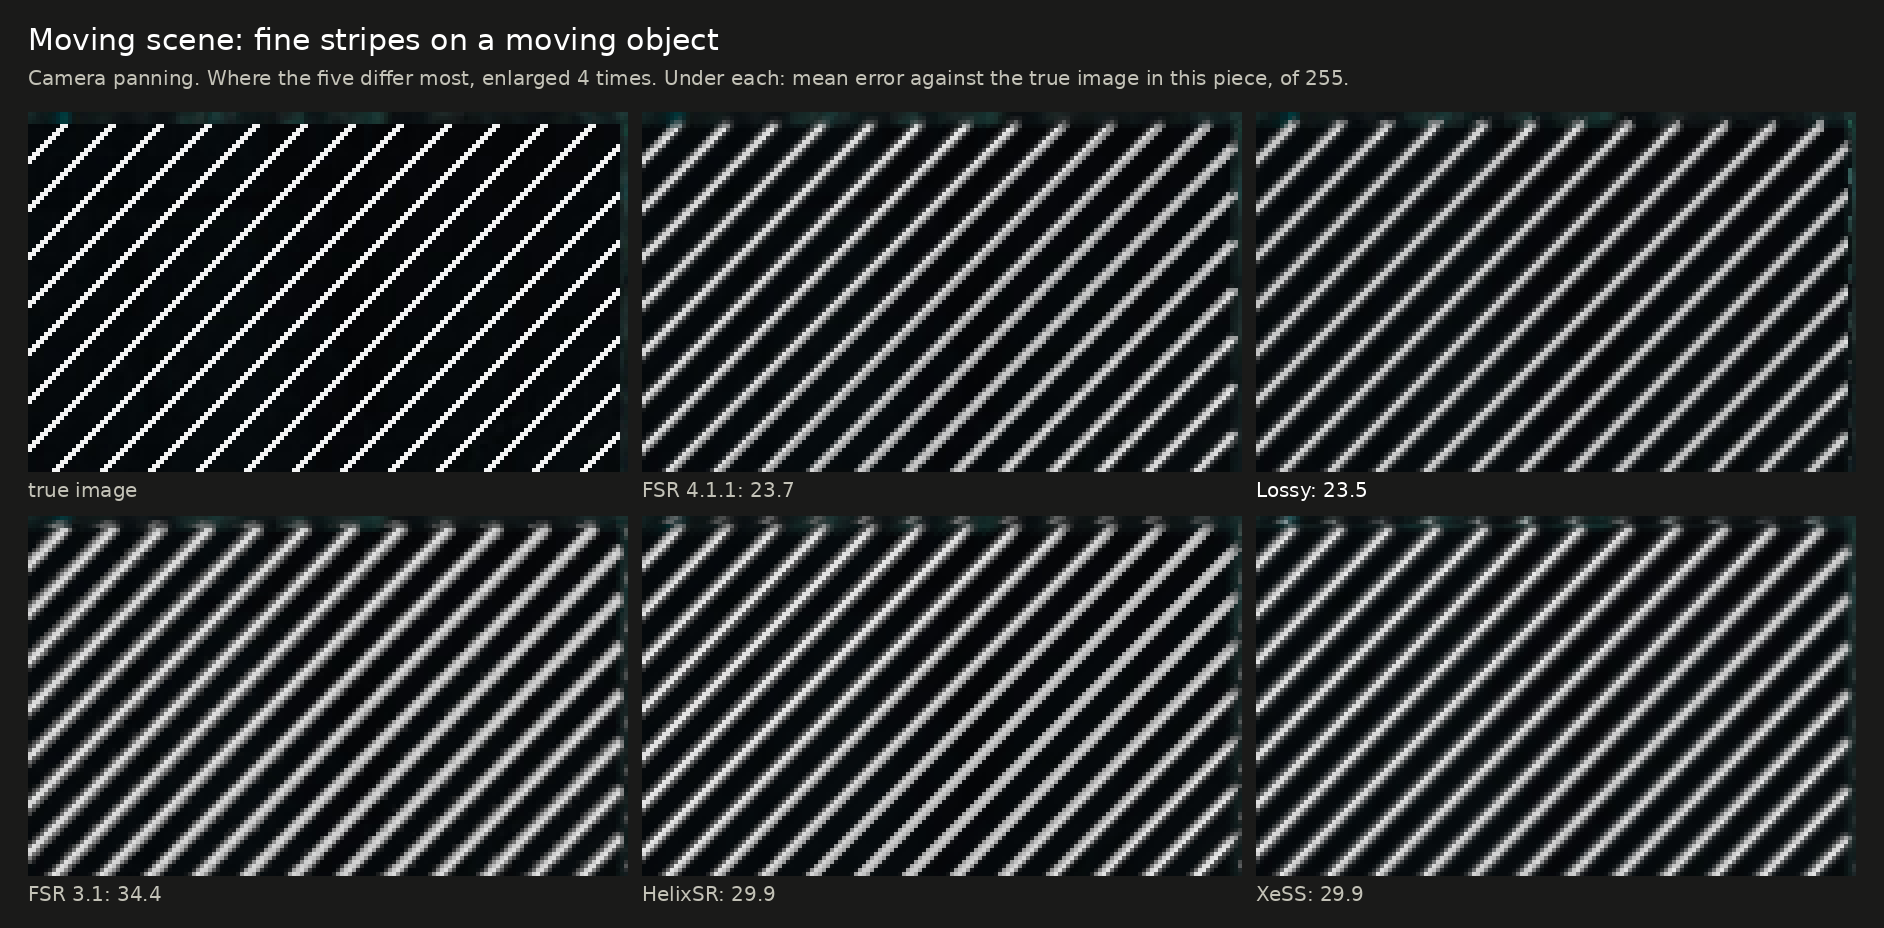
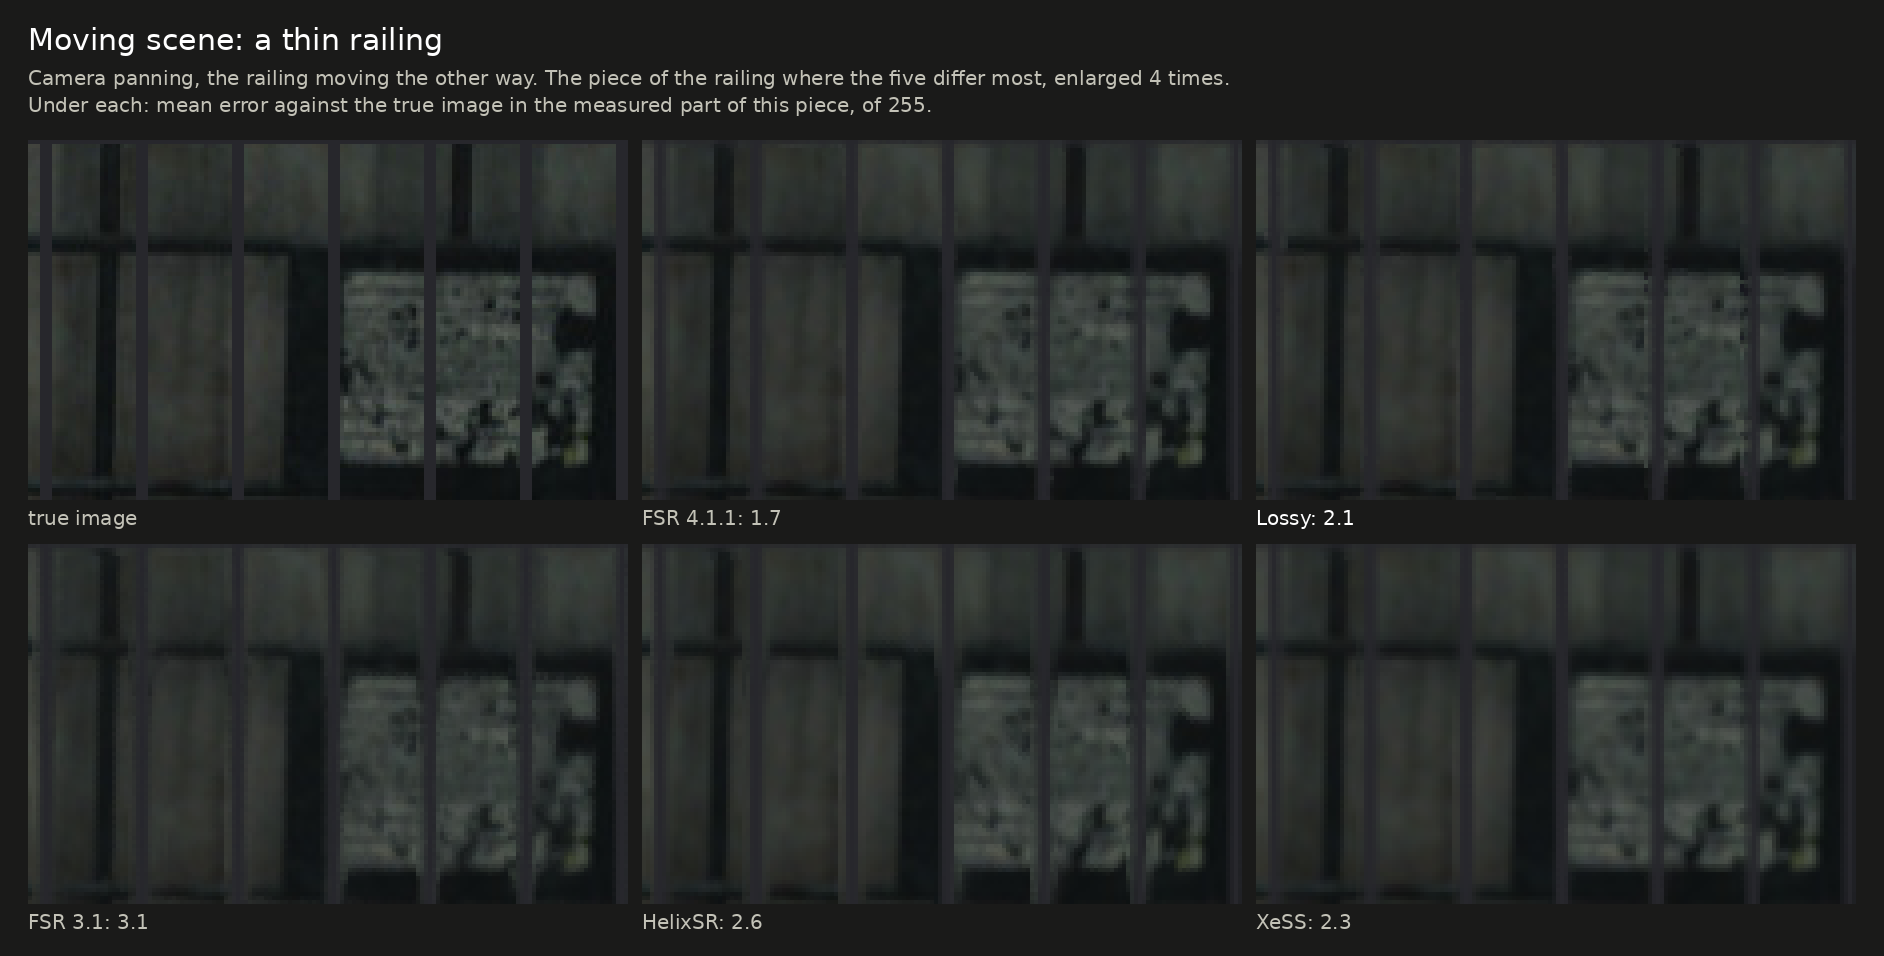
Upscaler comparison: one picture per spoke of the chart
The moving-scene picture now shows the railing, the wire picture a slow pan (where the chart measures
it); new pictures for just-uncovered areas (panning and still camera), old image beside a moving
object, thin bars fixed on screen and steadiness at rest (a change map). Pieces are centered on the part
a measure looks at, and the figure under each panel counts that part.

diff --git a/docs/img/make_upscaler_comparison.py b/docs/img/make_upscaler_comparison.py
@@ -3,7 +3,7 @@
 # make_upscaler_comparison.py [<dir>]: the figures of docs/upscaler-comparison.md.
 #   cmp5-radar-{light,dark}.svg (one shape per upscaler), release-radar-{light,dark}.svg (this release's lossy DLL over the previous one's, and FSR 4.1.1 under this release's, for the front page), steady-quality-{light,dark}.svg (for docs/steady-test.md): charts; the numbers in them are the
 #       tables of that page (test rig, 4K output from 2260x1272, Radeon RX 7800 XT under Proton, single runs).
-#   With <dir>: cmp5-still.png, cmp5-wires.png, cmp5-sparks.png, cmp5-foliage.png, cmp5-motion.png, cmp5-big.png (large particles), cmp5-plate.png, cmp5-rain.png (frame 39 of the plate scene and of the rain scene): the same piece of one frame from the
+#   With <dir>: one picture per picture spoke: cmp5-still.png, cmp5-motion.png (the railing), cmp5-uncovered.png, cmp5-uncovered-still.png, cmp5-ghost.png, cmp5-plate.png, cmp5-bars.png, cmp5-sparks.png, cmp5-foliage.png, cmp5-rest.png (a change map), cmp5-wires.png (under a slow pan), and for the tables cmp5-big.png (large particles) and cmp5-rain.png: the same piece of one frame from the
 #       five upscalers beside the true image. <dir> holds <scene>_<name>/output_3840x2160_f037.raw (RGBA16F) for scene in still,
 #       wires, sparks, foliage, motion and name in fsr4, lossy, fsr3, helix, xess, and <scene>_truth.npy (the true 4K image).
 import sys
@@ -241,19 +241,28 @@ def box(a, kh, kw):
     return (c[kh:, kw:] - c[:-kh, kw:] - c[kh:, :-kw] + c[:-kh, :-kw]) / kh / kw
 
 
-def crops(scene, title, sub, kw, kh, z, area, gain=1.0, name=None, only_changed=False, frame=37):
-    """the kw x kh piece inside `area` (x0, y0, x1, y1) where the five differ most from each other, enlarged z times"""
+def crops(scene, title, sub, kw, kh, z, area, gain=1.0, name=None, only_changed=False, frame=37, mask=None, shade=False):
+    """the kw x kh piece inside `area` (x0, y0, x1, y1) where the five differ most from each other, enlarged z times;
+    mask: a file <dir>/<mask>.npy (4K, boolean), only differences inside it count (the part of the picture a measure looks at);
+    the piece is then centered on that part, and with shade the rest of the piece is dimmed"""
     tru = srgb(np.load(f'{D}/{scene}_truth.npy').astype(np.float32))
     out = {k: srgb(np.fromfile(f'{D}/{scene}_{k}/output_3840x2160_f{frame:03d}.raw', dtype=np.float16).reshape(HH, WW, 4)[:, :, :3]) for k in KEYS}
     spread = np.std(np.stack([out[k].mean(2) for k in KEYS]), 0)
     if only_changed:      # only where this scene's true image differs from the still scene's: the particles, not the picture behind them
         spread = spread * (np.abs(tru - srgb(np.load(f'{D}/still_truth.npy').astype(np.float32))).mean(2) > 0.02)
+    mk = np.load(f'{D}/{mask}.npy') if mask else None
+    if mask:
+        spread = spread * mk
     x0, y0, x1, y1 = area
     s = box(spread, kh, kw)[y0:y1 - kh, x0:x1 - kw]; y, x = np.unravel_index(np.argmax(s), s.shape); y += y0; x += x0
+    if mask:      # center the piece on the measured part inside it
+        ys, xs = np.nonzero(mk[y:y + kh, x:x + kw]); y = int(np.clip(y + ys.mean() - kh / 2, 0, HH - kh)); x = int(np.clip(x + xs.mean() - kw / 2, 0, WW - kw))
     c = lambda a: a[y:y + kh, x:x + kw]
-    pic = lambda a: (np.clip(np.repeat(np.repeat(c(a), z, 0), z, 1) * gain, 0, 1) * 255 + 0.5).astype(np.uint8)
-    panels = [('true image', pic(tru))] + [(f'{n}: {np.abs(c(out[k]) - c(tru)).mean() * 255:.1f}', pic(out[k])) for n, k in zip(NAMES, KEYS)]
-    print(scene, 'window', x, y, ' '.join(p[0] for p in panels[1:]))
+    dim = np.where(c(mk), 1.0, 0.4)[:, :, None] if (mask and shade) else 1.0
+    pic = lambda a: (np.clip(np.repeat(np.repeat(c(a) * dim, z, 0), z, 1) * gain, 0, 1) * 255 + 0.5).astype(np.uint8)
+    err = lambda a: (np.abs(c(a) - c(tru)).mean(2)[c(mk)] if mask else np.abs(c(a) - c(tru))).mean() * 255      # with a mask: over the measured part of the piece
+    panels = [('true image', pic(tru))] + [(f'{n}: {err(out[k]):.1f}', pic(out[k])) for n, k in zip(NAMES, KEYS)]
+    print(name or scene, 'window', x, y, ' '.join(p[0] for p in panels[1:]))
     pw, ph, gap, m = kw * z, kh * z, 14, 28
     top = 112 + 28 * sub.count('\n')
     im = Image.new('RGB', (2 * m + 3 * pw + 2 * gap, top + 2 * (ph + 44) + 8), BG); d = ImageDraw.Draw(im)
@@ -264,13 +273,47 @@ def crops(scene, title, sub, kw, kh, z, area, gain=1.0, name=None, only_changed=
     im.save(name or f'cmp5-{scene}.png', optimize=True)
 
 
+def restmap(kw=240, kh=150, z=2, gain=120):
+    """steadiness at rest: how much each pixel of the still picture changes from frame 36 to frame 37, as a map, at the piece where FSR 4.1.1 changes most"""
+    fr = lambda k, n: srgb(np.fromfile(f'{D}/rest_{k}/output_3840x2160_f{n:03d}.raw', dtype=np.float16).reshape(HH, WW, 4)[:, :, :3])
+    ch = {k: np.abs(fr(k, 37) - fr(k, 36)).mean(2) for k in KEYS}
+    spread = ch['fsr4']      # where FSR 4.1.1, the reference, changes most
+    s = box(spread, kh, kw)[200:HH - 200 - kh, 200:WW - 200 - kw]; y, x = np.unravel_index(np.argmax(s), s.shape); y += 200; x += 200
+    c = lambda a: a[y:y + kh, x:x + kw]
+    tru = srgb(np.load(f'{D}/rest_truth.npy').astype(np.float32))
+    pic = lambda a: (np.clip(np.repeat(np.repeat(a, z, 0), z, 1), 0, 1) * 255 + 0.5).astype(np.uint8)
+    mp = lambda a: np.repeat(pic(np.clip(c(a) * gain, 0, 1))[:, :, None], 3, 2)
+    panels = [('the picture (true image)', pic(c(tru)))] + [(f'{n}: {c(ch[k]).mean() * 255:.3f}', mp(ch[k])) for n, k in zip(NAMES, KEYS)]
+    print('rest window', x, y, ' '.join(p[0] for p in panels[1:]), '| whole frame:', ' '.join(f'{k} {ch[k].mean() * 255:.3f}' for k in KEYS))
+    title = 'Steadiness at rest: what changes from one frame to the next'
+    sub = ('A still picture, nothing moves. The piece where FSR 4.1.1 changes most, enlarged 2 times; the maps show the change of each pixel\n'
+           f'from one frame to the next, brightened {gain} times. Under each: mean change in this piece, of 255. Darker is steadier.')
+    pw, ph, gap, m = kw * z, kh * z, 14, 28
+    top = 112 + 28 * sub.count('\n')
+    im = Image.new('RGB', (2 * m + 3 * pw + 2 * gap, top + 2 * (ph + 44) + 8), BG); d = ImageDraw.Draw(im)
+    d.text((m, 22), title, font=font(30), fill=INK); d.multiline_text((m, 66), sub, font=font(20), fill=MUTED, spacing=8)
+    for i, (pl, a) in enumerate(panels):
+        px, py = m + (i % 3) * (pw + gap), top + (i // 3) * (ph + 44)
+        im.paste(Image.fromarray(a), (px, py)); d.text((px, py + ph + 6), pl, font=font(20), fill=INK if pl.startswith('Lossy') else MUTED)
+    im.save('cmp5-rest.png', optimize=True)
+
+
+# One picture per picture spoke of the chart (and two for scenes that are in the tables only: large particles, rain).
 E = 'Under each: mean error against the true image in this piece, of 255.'
-crops('still', 'Still picture: fine detail', f'A piece of the 4K output where the five upscalers differ most from each other, enlarged 4 times.\n{E}', 150, 90, 4, (200, 200, WW - 200, HH - 200))
-crops('wires', 'A wire far thinner than a rendered pixel, camera still', f'Where the five differ most, enlarged 4 times. {E}', 150, 90, 4, (250, 250, 1950, 1900))
+EM = 'Under each: mean error against the true image in the measured part of this piece, of 255.'
+ES = 'The measured part is shown at full brightness, the rest dimmed. Under each: mean error against the true image in that part, of 255.'
+FULL = (200, 200, WW - 200, HH - 200)
+crops('still', 'Still picture: fine detail', f'A piece of the 4K output where the five upscalers differ most from each other, enlarged 4 times.\n{E}', 150, 90, 4, FULL)
+crops('motion', 'Moving scene: a thin railing', f'Camera panning, the railing moving the other way. The piece of the railing where the five differ most, enlarged 4 times.\n{EM}', 150, 90, 4, FULL, mask='motion_mask_rail')
+crops('motion', 'Just uncovered, camera panning', f'What a moving object has uncovered in the last four frames. The piece of it where the five differ most, enlarged 5 times.\n{ES}', 120, 72, 5, FULL, mask='motion_mask_uncovered', name='cmp5-uncovered.png', shade=True)
+crops('stillcam', 'Just uncovered, camera still', f'The camera is still and the objects move. The piece of what they have just uncovered where the five differ most,\nenlarged 5 times. {ES}', 120, 72, 5, FULL, mask='stillcam_mask', name='cmp5-uncovered-still.png', shade=True)
+crops('ghost10', 'Old image beside a moving object', f'Camera still, the object moving. Where its image of a frame ago would land if it were left behind: the piece where the five\ndiffer most, enlarged 5 times. {ES}', 120, 72, 5, FULL, mask='ghost10_mask', name='cmp5-ghost.png', shade=True)
+crops('plate', 'A still bright object over ground that moves fast', f'The ground moves down by 100 pixels per frame; the white object (top) stays where it is, at the same depth.\nThe piece just below it where the five differ most, enlarged 2 times. {E}', 240, 160, 2, (2300, 800, 3100, 1000), frame=39)
+crops('bars', 'Thin bars fixed on screen in front of a moving background', f'The bars stay in place, the background pans by 12 pixels per frame. Between the bars, where their image of a frame ago\nwould land: the piece where the five differ most, enlarged 4 times and brightened 3 times. {EM}', 150, 90, 4, FULL, mask='bars_mask', gain=3)
 crops('sparks', 'Tiny fast sparks drawn without motion vectors', f'Camera still. Where the five differ most, enlarged 5 times. {E}', 120, 72, 5, (250, 250, 1950, 1900), only_changed=True)
 crops('foliage', 'Leaves swaying without motion vectors, camera still', f'Where the five differ most, enlarged 4 times. {E}', 150, 90, 4, (300, 300, 1900, 1850))
-crops('motion', 'Moving scene: fine stripes on a moving object', f'Camera panning. Where the five differ most, enlarged 4 times. {E}', 150, 90, 4, (1900, 250, 3300, 1500))
-crops('plate', 'A still bright object over ground that moves fast', f'The ground moves down by 100 pixels per frame; the white object (top) stays where it is, at the same depth.\nThe piece just below it where the five differ most, enlarged 2 times. {E}', 240, 160, 2, (2300, 800, 3100, 1000), frame=39)
+restmap()
+crops('wirepan', 'A wire far thinner than a rendered pixel, camera panning slowly', f'Where the five differ most, enlarged 4 times. {E}', 150, 90, 4, (250, 250, 1950, 1900), name='cmp5-wires.png')
 crops('big', 'Large glowing particles drawn without motion vectors', f'Camera still. Where the five differ most, enlarged 4 times. {E}', 150, 90, 4, (250, 250, 1950, 1900), only_changed=True)
 
 # ---- rain: thin fast streaks without motion vectors over a dark surface (research/pruning/rain.py), frame 39. There is no "true image" to score against

diff --git a/docs/upscaler-comparison.md b/docs/upscaler-comparison.md
@@ -91,11 +91,16 @@ and the ground are at the same depth in this scene; with distinct depths the los
   with release `dll-2026-10-12`, which made skipped frames use the network's verdict there (the release before scored 15.0 and 13.5).
   The figures are for the frames that skip the network; on the others the lossy DLL reads 11.9 and 11.1.
 
-The three pictures below are of the scenes in the first rows of the table and of the foliage rows.
+The pictures below are of the scenes behind the chart's accuracy, railing, uncovered and foliage spokes: one piece of one frame from each of the five, beside the true image.
+Each piece is the one where the five differ most, so it shows the differences at their largest, not a typical part of the frame.
 
 <img src="img/cmp5-still.png" width="760" alt="Still picture, a 150 by 90 pixel piece of the 4K output enlarged four times, where the five upscalers differ most: a water tank with a thin ladder and railing. True image, then FSR 4.1.1 (error 2.3 of 255), the lossy DLL (2.4), FSR 3.1 (2.8), HelixSR (1.8) and XeSS (2.2). The ladder's thin rungs are clearest in HelixSR and FSR 4.1.1 and softest in FSR 3.1.">
 
-<img src="img/cmp5-motion.png" width="760" alt="Moving scene, camera panning, a piece of the fine diagonal stripes on a moving object enlarged four times. True image: thin sharp white stripes. FSR 4.1.1 (error 23.7 of 255) and the lossy DLL (23.4) show them thin and even; FSR 3.1 (34.4) thicker and softer; HelixSR and XeSS (29.9 each) in between.">
+<img src="img/cmp5-motion.png" width="760" alt="Moving scene, camera panning, a piece of the thin railing in front of a wall with a bright patch, enlarged four times. True image: sharp dark bars. FSR 4.1.1 (error 1.7 of 255) and the lossy DLL (2.1) show the bars and the patch behind them nearly as sharp; XeSS (2.3) and HelixSR (2.6) a little softer; FSR 3.1 (3.1) softest, with the bars widened.">
+
+<img src="img/cmp5-uncovered.png" width="760" alt="Just-uncovered areas with the camera panning: the strip a moving object has uncovered in the last four frames, shown at full brightness beside the dimmed object, enlarged five times. Error in the strip in this piece: FSR 4.1.1 2.3 of 255, the lossy DLL 2.8, FSR 3.1 4.5, XeSS 4.7, HelixSR 5.4. Over all such areas of the frame the lossy DLL is ahead of FSR 4.1.1 (35.90 against 34.48 dB); in this piece, the one where the five differ most, it is behind.">
+
+<img src="img/cmp5-uncovered-still.png" width="760" alt="Just-uncovered areas with the camera still and the objects moving: the uncovered strip above a striped object, shown at full brightness, enlarged five times. Error in the strip: FSR 4.1.1 1.4 of 255, the lossy DLL 1.7, FSR 3.1 2.6, HelixSR 2.8, XeSS 3.6. XeSS shows bright specks along the object's edge.">
 
 <img src="img/cmp5-foliage.png" width="760" alt="Leaves swaying without motion vectors, camera still, a piece enlarged four times. True image: sharp small dark and light green leaves against a pale sky. FSR 4.1.1 (error 12.4 of 255) is the closest and XeSS (13.2) next; the lossy DLL (19.9) shows the leaves softest; FSR 3.1 (17.8) and HelixSR (16.8) are between.">
 
@@ -174,6 +179,10 @@ The figures are for the frames the lossy DLL skips the network for.
   up to 3.1 on those that skip it ([the figures](../research/frame-skip/README.md#finer-motion-for-the-rules-a-memory-rule-and-two-cleared-diagonals-release-dll-2026-10-13)).
   The other three upscalers were not run at that size.
 
+<img src="img/cmp5-ghost.png" width="760" alt="Old image beside a moving object, camera still: the narrow strip beside a striped object where its image of a frame ago would land, shown at full brightness, enlarged five times. Error in the strip: FSR 4.1.1 4.2 of 255, the lossy DLL 5.0, XeSS 7.1, HelixSR 8.1, FSR 3.1 8.2. All five show the strip close to the true image; the differences are small to the eye.">
+
+<img src="img/cmp5-bars.png" width="760" alt="Thin bars fixed on screen in front of a background panning by 12 pixels per frame, a piece with two bars enlarged four times and brightened three times. The true image, FSR 4.1.1 (error 0.6 of 255 where the bars' old image would land) and FSR 3.1 (0.8) show only the two bars. The lossy DLL (1.0) shows one faint thin line beside the left bar. HelixSR (3.4) shows several faint copies of the bars and XeSS (9.6) several clear ones.">
+
 ## Steadiness
 
 How much the picture changes from one frame to the next where it should not, in steps of 255. Lower is steadier.
@@ -199,7 +208,9 @@ How much the picture changes from one frame to the next where it should not, in 
   shows this with the camera still: HelixSR draws it brighter than the true image (143 of 255 against a true 111), FSR 4 and the lossy DLL
   dimmer (67 and 66), XeSS and FSR 3.1 in between (96 and 91).
 
-<img src="img/cmp5-wires.png" width="760" alt="A wire far thinner than a rendered pixel, camera still, a piece with three wires enlarged four times. True image: thin continuous gray lines. FSR 4.1.1 (error 2.5 of 255) and the lossy DLL (2.6) show continuous dim lines; FSR 3.1 (1.6) and XeSS (1.7) brighter, slightly dotted lines; HelixSR (3.9) thicker lines brighter than the true image.">
+<img src="img/cmp5-rest.png" width="760" alt="Steadiness at rest: a piece of the still picture and, for each of the five, a map of how much every pixel changes from one frame to the next, brightened 120 times, at the place where FSR 4.1.1 changes most. Mean change in the piece: FSR 4.1.1 0.145 of 255, XeSS 0.122, the lossy DLL 0.064, HelixSR 0.052, FSR 3.1 0.038. Whole frame: 0.036, 0.082, 0.022, 0.019 and 0.013.">
+
+<img src="img/cmp5-wires.png" width="760" alt="A wire far thinner than a rendered pixel while the camera pans slowly, a piece with three wires enlarged four times. True image: thin continuous gray lines. FSR 4.1.1 (error 1.6 of 255) and FSR 3.1 (1.2) show them continuous and nearly as bright; XeSS (2.0) dimmer and dotted; HelixSR (3.1) thicker and brighter than the true image; the lossy DLL (3.7) shows them far dimmer, the upper two almost gone in most of the piece.">
 
 ## Speed
 
